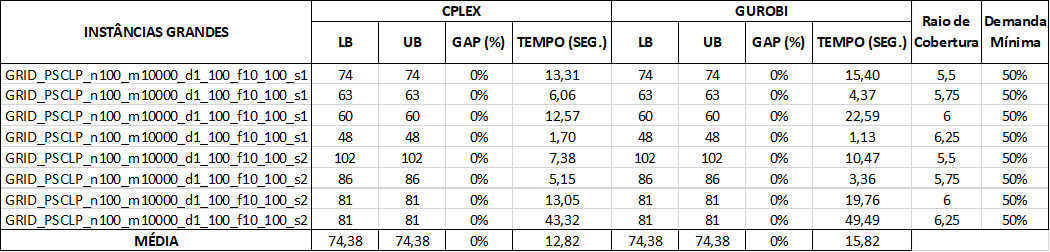
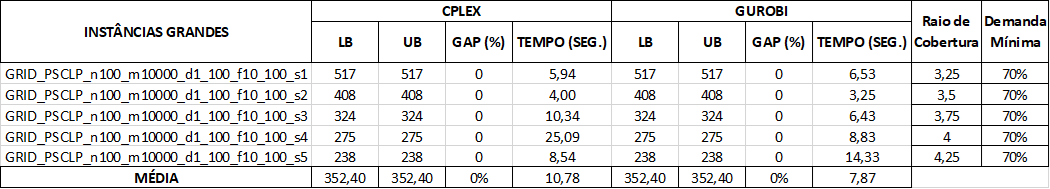
📚 docs: Atualiza as tabelas no README

Changed region(s): [[0.0, 0.0, 1.0, 1.0], [0.061, 0.1058, 0.2438, 0.2116], [0.3657, 0.582, 0.4876, 0.6614]]

diff --git a/README.md b/README.md
@@ -78,8 +78,8 @@ python main.py --inst_dir instances --out_dir results --time_limit 3600
 
 ## 🔬 Configuração dos Experimentos
 
-- **Raios de cobertura testados:** 5.5, 5.75, 6.0, 6.25
-- **Percentual de demanda mínima:** 50%
+- **Raios de cobertura testados:** 3.25, 3.5, 3.75, 4,4.25
+- **Percentual de demanda mínima:** 70%
 - **Solvers:** CPLEX e Gurobi
 - **Tempo limite:** 1 hora por instância
 
@@ -109,6 +109,12 @@ Os resultados são salvos em:
 
 ### Instâncias Grandes
 ![Instâncias Grandes](assets/grandes.png)
+
+### Instâncias Enormes
+![Instâncias Grandes](assets/enormes.png)
+
+### Instâncias Gigantes
+![Instâncias Grandes](assets/gigantes.png)
 
 ## 📦 Dependências
 
